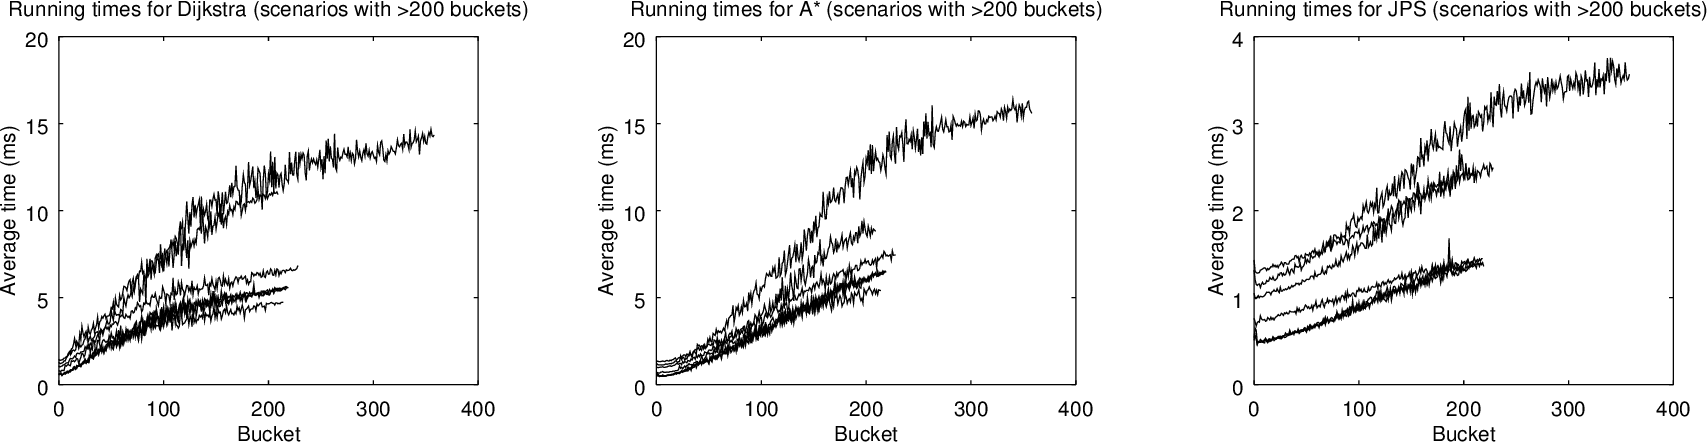
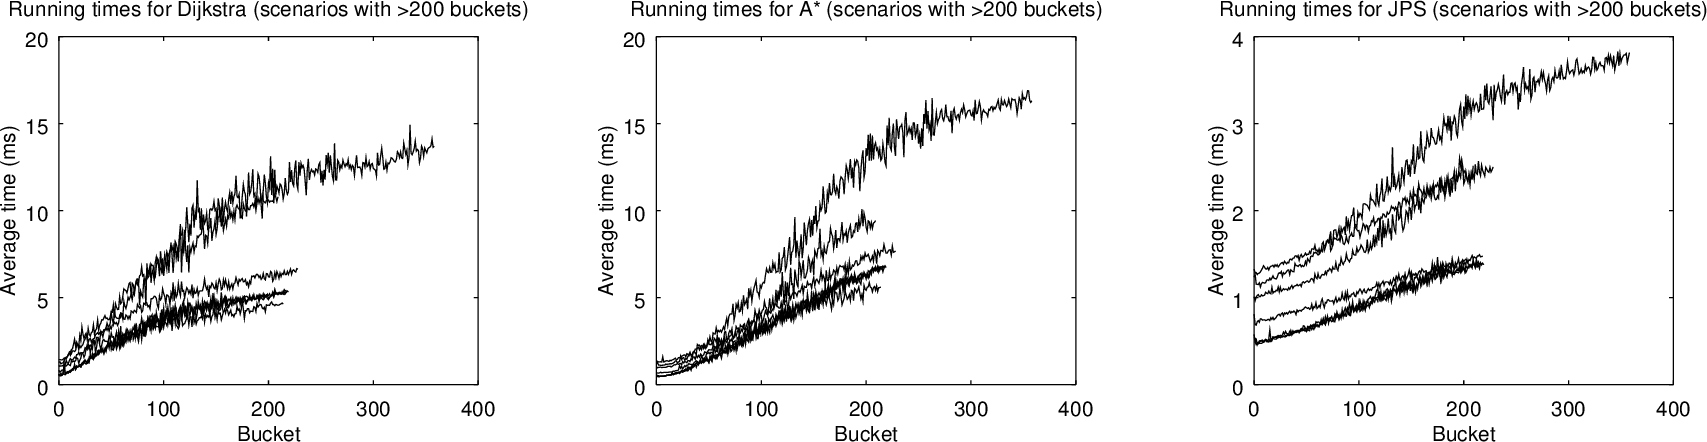
Updated result figures

Changed region(s): [[0.7141, 0.1176, 0.9625, 0.7647], [0.3726, 0.2059, 0.621, 0.8529], [0.031, 0.2941, 0.2794, 0.8529]]

diff --git a/doc/Implementation_document.md b/doc/Implementation_document.md
@@ -74,7 +74,7 @@ When using a binary heap, the time complexity of Dijkstra's algorithm is O((V + 
 
 ### A*
 
-A* is another general algorithm for finding the shortest path between nodes in a graph. However, unlike Dijkstra's algorithm, A* uses a heuristic function to guide the search towards directions which seem promising.
+A* is another general algorithm for finding shortest paths between nodes in a graph. However, unlike Dijkstra's algorithm, A* uses a heuristic function to guide the search towards directions which seem promising.
 
 We shall use the octile distance as the heuristic function. Here a and b are any two nodes.
 
@@ -117,10 +117,37 @@ Astar(G,w,a,b)
             heap-decrease-key(H,v,g[v]+h[v])
 ```
 
+When using a binary heap, the time complexity of A* is O((V + E)log(V)). The space complexity is O(V).
+
 ### Jump point search (JPS)
 
 ...
 
+
+```
+identify_successors(x,a,b)
+    successors = empty set
+    neighbours = prune(x,neighbours(x))
+    for all n in neighbours
+        n = jump(x,direction(x,n),a,b)
+        add n to successors
+```
+
+```
+jump(x,d,a,b)
+    n = step(x,d)
+    if n is an obstacle or is outside the grid
+        return NIL
+    if n = b
+        return n
+    if exists n' in neighbours(n) such that n' is forced
+        return n
+    if d is diagonal
+        for all i in {1,2}
+            if jump(n,d_i,a,b) is not NIL
+                return n
+    return jump(n,d,a,b)
+```
 
 ## Performance Testing
 
@@ -153,7 +180,7 @@ Running time is described first in absolute terms (milliseconds), and then mostl
 
 The figure below presents the results of running a single scenario. The scenario in question is "lak100d" from the DAO problem set.
 
-![The results of running a single scenario](img/lak100d_results_avg.png)
+![The results of running a single scenario](img/lak100d_results3.png)
 
 **A\*:** For most problems, A* is faster than Dijkstra. The average speedup, however, is only 1.6, which is perhaps a bit disappointing. The maximum observed speedup, excluding outliers, is around 2.5. When path lengths approach the maximum, the performance of Dijkstra and A* is roughly the same. This indicates that for sufficiently long paths both Dijkstra and A* expand roughly the same set of nodes. The figure below indicates that this is because each map has limited width and height, which constrains the search. In other words, even though Dijkstra has a tendency to search radially the limits of the map constrain this radial expansion.
 
